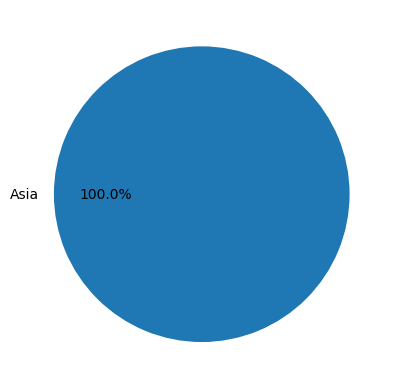
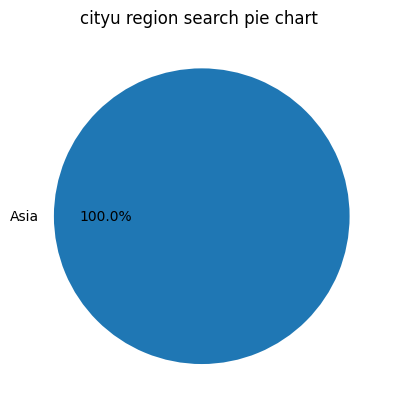
update and add title

diff --git a/templates/home.html b/templates/home.html
@@ -68,9 +68,9 @@
     {% if image_filename %}
     <h4>Chart Image</h4>
     <img src="{{ url_for('static', filename=image_filename[7:]) }}" />
-  <h5>Download the chart</h5>
+  <h5>Download the Chart Image</h5>
   <p>
-    <a href="{{url_for('static', filename=image_filename[7:])}}">Download</a>
+    <a href="{{ url_for('static', filename=image_filename[7:]) }}" download >Download</a>
   </p>
     {% endif %} 
   {% endif %}

diff --git a/serp_api.py b/serp_api.py
@@ -56,6 +56,7 @@ def fetch_data(keyword,type):
             df_gp = df_gp[df_gp['continent_value'] >= 1]
             plt.pie(df_gp['continent_value'], labels=df_gp['continent'],
                     autopct='%1.1f%%', startangle=0, pctdistance=0.65)
+            plt.title('%s region search pie chart '%keyword)
             image_filename = f'static/img/{keyword}_region.png'
             plt.savefig(image_filename,bbox_inches='tight')
             data_list.append({"image_filename": image_filename})
@@ -80,7 +81,7 @@ def fetch_data(keyword,type):
             ax.grid(color='grey',
                     linestyle='-.', linewidth=0.5,
                     alpha=0.2)
-            ax.set_title('Query',
+            ax.set_title('%s queries search bar chart '%keyword,
                          loc='center', )
             image_filename = f'static/img/{keyword}_queries.png'
             plt.savefig(image_filename,bbox_inches='tight')
@@ -108,6 +109,7 @@ def fetch_data(keyword,type):
             df_gp = df_gp.reset_index()
             plt.pie(df_gp['value'], labels=df_gp['title'],
                     autopct='%1.1f%%', startangle=0)
+            plt.title('%s topics search bar charts'%keyword)
             image_filename = f'static/img/{keyword}_topics.png'    
             plt.savefig(image_filename,bbox_inches='tight')
             data_list.append({"image_filename": image_filename})
